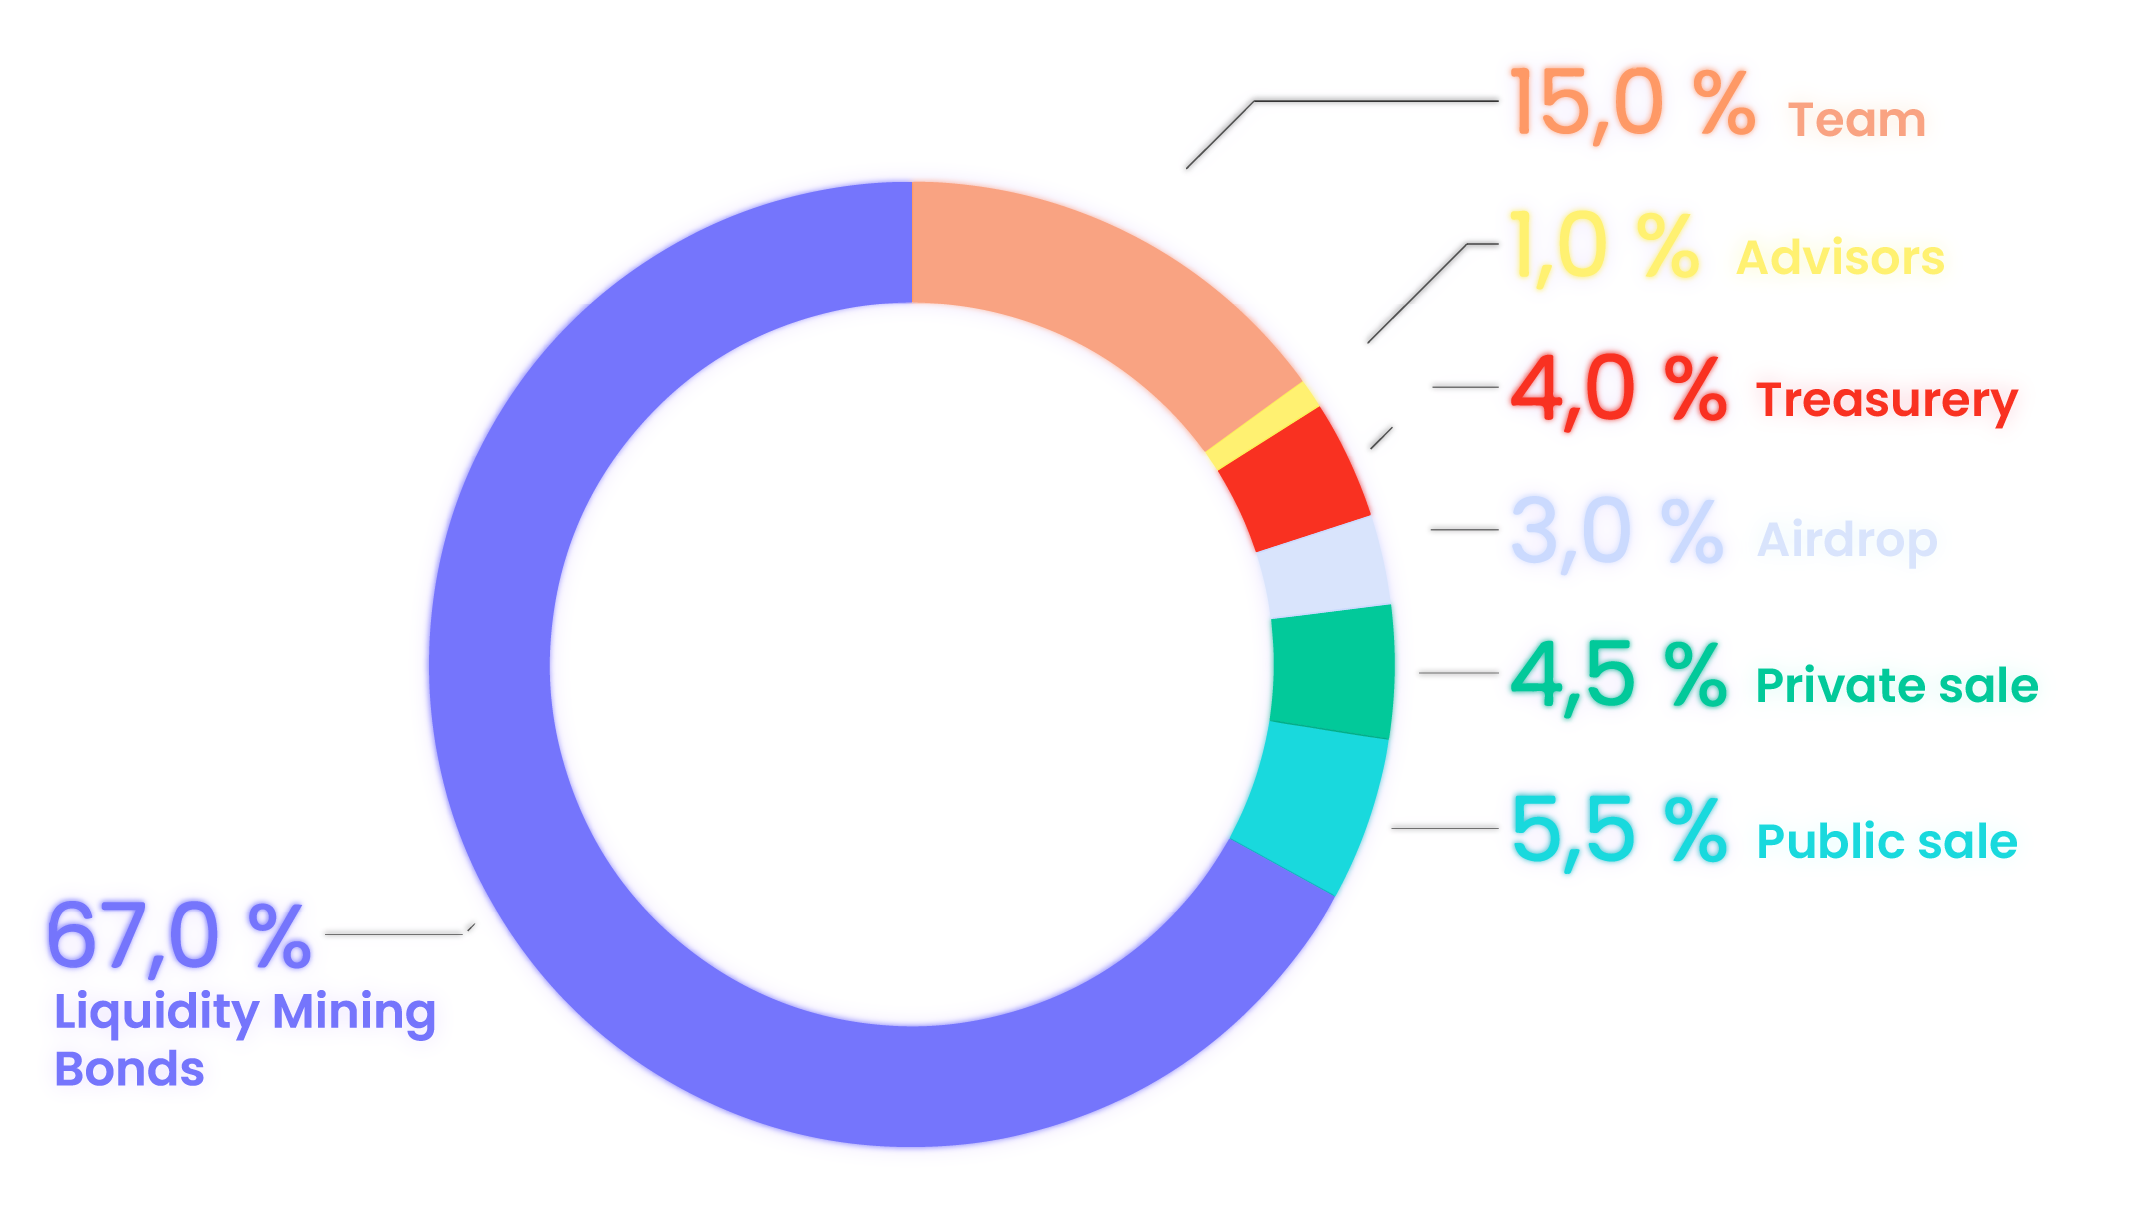
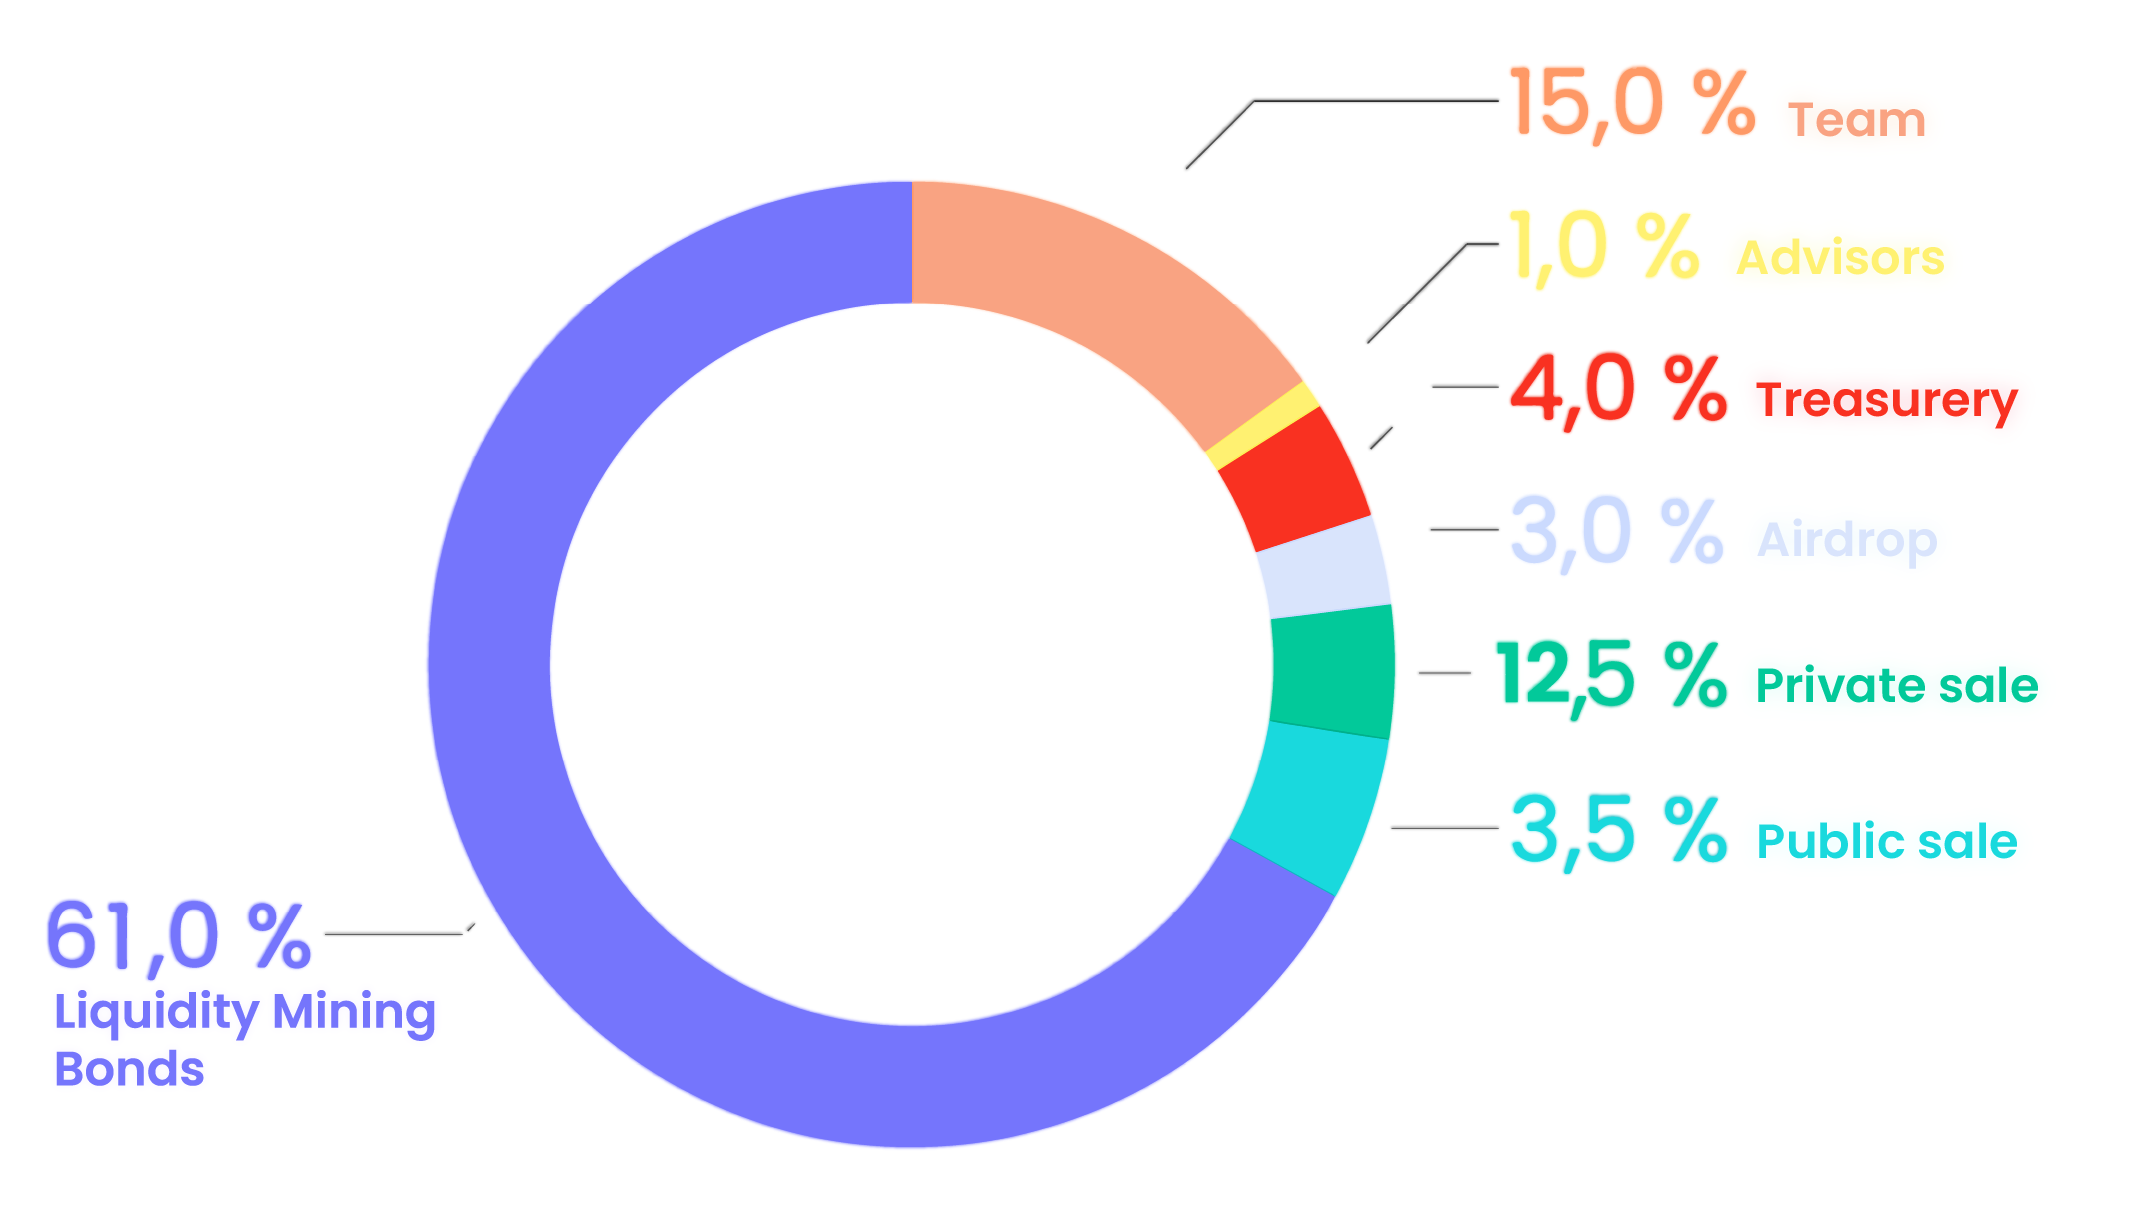
update Allocation.tsx update vesting

diff --git a/components/sections/Allocation.tsx b/components/sections/Allocation.tsx
@@ -34,10 +34,10 @@ const Allocation = () => {
                   Eligible are: Joe's Holders from 5Joe and delegators / validators of the network. The airdrop is variable depending on the number of tokens you have and the length of time you have locked them up.
                 </li>
                 <li>
-                  To finance the rapid evolution of our platform and audit our code before launch we allocate <b>4.5%</b>  for a private sale and  <b>5.5%</b>  for a public sale.
+                  To finance the rapid evolution of our platform and audit our code before launch we allocate <b>12.5%</b>  for a private sale and  <b>3.5%</b>  for a public sale.
                 </li>
                 <li>
-                  Having good liquidity is important, this is why we reserve <b>67%</b> of our supply for liquidity providers and bonds.
+                  Having good liquidity is important, this is why we reserve <b>61%</b> of our supply for liquidity providers and bonds.
                 </li>
               </ul>
             </div>

diff --git a/components/sections/Vesting.tsx b/components/sections/Vesting.tsx
@@ -15,7 +15,7 @@ const Vesting = () => {
       <BorderLayout>
         <div className="flex flex-col items-center space-y-10 lg:space-y-0 space-x-0 lg:space-x-20 lg:flex-row">
           <div className="flex flex-col items-center ">
-            <Image src="/vesting.png" width={1138} height={409} layout={'intrinsic'}
+            <Image src="/vesting.png" width={1138} height={540} layout={'intrinsic'}
                    alt="Process farming example"/>
           </div>
         </div>
